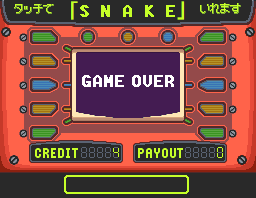
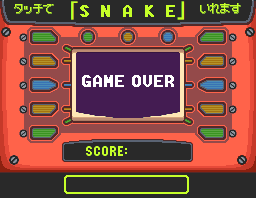
Worked on OptionState, added option to change snakeColor

Changed region(s): [[0.0938, 0.697, 0.9062, 0.8485]]

diff --git a/src/Game/GameStates/OptionState.java b/src/Game/GameStates/OptionState.java
@@ -1,0 +1,71 @@
+package Game.GameStates;
+
+import Main.Handler;
+import Resources.Images;
+import UI.UIImageButton;
+import UI.UIManager;
+
+import java.awt.*;
+
+/**
+ * Created by AlexVR on 7/1/2018.
+ */
+public class OptionState extends State {
+
+    private int count = 0;
+    private UIManager uiManager;
+
+    public OptionState(Handler handler) {
+        super(handler);
+        uiManager = new UIManager(handler);
+        handler.getMouseManager().setUimanager(uiManager);
+
+        uiManager.addObjects(new UIImageButton(350, 720, 120, 56, Images.Resume, () -> {
+            handler.getMouseManager().setUimanager(null);
+            State.setState(handler.getGame().pauseState);
+        }));
+        uiManager.addObjects(new UIImageButton(265, 322, 40, 40, Images.OptionsB, () -> {
+            handler.getMouseManager().setUimanager(null);
+            handler.getWorld().player.snakeColor = new Color(64,200,97);
+        }));
+        uiManager.addObjects(new UIImageButton(114, 372, 40, 40, Images.OptionsB, () -> {
+            handler.getMouseManager().setUimanager(null);
+            handler.getWorld().player.snakeColor = new Color(82,219,255);
+        }));
+        uiManager.addObjects(new UIImageButton(265, 422, 40, 40, Images.OptionsB, () -> {
+            handler.getMouseManager().setUimanager(null);
+            handler.getWorld().player.snakeColor = Color.white;
+        }));
+        uiManager.addObjects(new UIImageButton(114, 474, 40, 40, Images.OptionsB, () -> {
+            handler.getMouseManager().setUimanager(null);
+            handler.getWorld().player.snakeColor = Color.red;
+        }));
+      
+
+    }
+
+    @Override
+    public void tick() {
+        handler.getMouseManager().setUimanager(uiManager);
+        uiManager.tick();
+        count++;
+        if( count>=30){
+            count=30;
+        }
+        if(handler.getKeyManager().pbutt && count>=30){
+            count=0;
+
+            State.setState(handler.getGame().gameState);
+        }
+
+
+    }
+
+    @Override
+    public void render(Graphics g) {
+        g.drawImage(Images.Option,0,0,800,800,null);
+        
+        uiManager.Render(g);
+
+    }
+}

diff --git a/src/Resources/Images.java b/src/Resources/Images.java
@@ -14,12 +14,15 @@ public class Images {
     public static BufferedImage[] butstart;
     public static BufferedImage title;
     public static BufferedImage Pause;
+    public static BufferedImage Option;
     public static BufferedImage GameOver;
     public static BufferedImage[] Resume;
     public static BufferedImage[] BTitle;
     public static BufferedImage[] Options;
     public static BufferedImage[] Restart;
+    public static BufferedImage[] OptionsB;
     public static ImageIcon icon;
+    
 
     public Images() {
 
@@ -27,6 +30,7 @@ public class Images {
         Resume = new BufferedImage[2];
         BTitle = new BufferedImage[2];
         Options = new BufferedImage[2];
+        OptionsB = new BufferedImage[2];
         Restart = new BufferedImage[2];
         
 
@@ -40,10 +44,13 @@ public class Images {
             BTitle[1] = ImageIO.read(getClass().getResourceAsStream("/Buttons/BTitleP.png"));
             Options[0] = ImageIO.read(getClass().getResourceAsStream("/Buttons/Options.png"));
             Options[1] = ImageIO.read(getClass().getResourceAsStream("/Buttons/OptionsP.png"));
+            OptionsB[0] = ImageIO.read(getClass().getResourceAsStream("/Buttons/OptionsB.png"));
+            OptionsB[1] = ImageIO.read(getClass().getResourceAsStream("/Buttons/OptionsBP.png"));
             butstart[0]= ImageIO.read(getClass().getResourceAsStream("/Buttons/NormBut.png"));//normbut
             butstart[1]= ImageIO.read(getClass().getResourceAsStream("/Buttons/HoverBut.png"));//hoverbut
             butstart[2]= ImageIO.read(getClass().getResourceAsStream("/Buttons/ClickedBut.png"));//clickbut
             GameOver = ImageIO.read(getClass().getResourceAsStream("/Buttons/GameOver.png"));
+            Option = ImageIO.read(getClass().getResourceAsStream("/Buttons/Option.png"));
             Restart[0]=ImageIO.read(getClass().getResourceAsStream("/Buttons/Restart.png"));
             Restart[1]=ImageIO.read(getClass().getResourceAsStream("/Buttons/RestartP.png"));
             icon =  new ImageIcon(ImageIO.read(getClass().getResourceAsStream("/Sheets/icon.png")));

diff --git a/src/Main/GameSetUp.java b/src/Main/GameSetUp.java
@@ -1,9 +1,11 @@
 package Main;
 
 import Display.DisplayScreen;
+
 import Game.GameStates.GameState;
 import Game.GameStates.LoseState;
 import Game.GameStates.MenuState;
+import Game.GameStates.OptionState;
 import Game.GameStates.PauseState;
 import Game.GameStates.State;
 import Input.KeyManager;
@@ -47,6 +49,7 @@ public class GameSetUp implements Runnable {
     public State menuState;
     public State pauseState;
     public State loseState;
+    public State optionState;
 
     //Res.music
     private InputStream audioFile;
@@ -83,7 +86,8 @@ public class GameSetUp implements Runnable {
         gameState = new GameState(handler);
         menuState = new MenuState(handler);
         pauseState = new PauseState(handler);
-        loseState = new LoseState(handler); //GameOver
+        loseState = new LoseState(handler); //GameOver Screen
+        optionState = new OptionState(handler); //Options Screen
 
         State.setState(menuState);
 
@@ -121,7 +125,7 @@ public class GameSetUp implements Runnable {
 
     public void run(){
 
-        //initiallizes everything in order to run without breaking
+        //initializes everything in order to run without breaking
         init();
 
         int fps = 60;

diff --git a/src/Game/Entities/Dynamic/Player.java b/src/Game/Entities/Dynamic/Player.java
@@ -2,8 +2,12 @@ package Game.Entities.Dynamic;
 
 import java.awt.Color;
 import java.awt.Font;
+import java.awt.FontFormatException;
 import java.awt.Graphics;
+import java.awt.GraphicsEnvironment;
 import java.awt.event.KeyEvent;
+import java.io.File;
+import java.io.IOException;
 import java.util.Random;
 
 import Game.GameStates.State;
@@ -163,7 +167,7 @@ public class Player {
 				
 				Color pinku = new Color(255,110,199);
 				g.setColor(Color.white);
-				g.setFont(new Font("Courier", 1,20)); // Score Font
+				g.setFont(new Font("Courier New", 1,20)); // Score Font
 				g.drawString("Score: "+this.score,340,30); // Score Display
 				
 				if(playeLocation[i][j]){
@@ -211,7 +215,6 @@ public class Player {
 		}else {
 			if (this.speed>2) {
 				this.speed-= 0.08; // Increases speed relative to (student number + 1)/100
-				System.out.println(speed);
 			}
 			this.score= (int)( this.score + Math.sqrt(2*this.score+1));
 			switch (direction){

diff --git a/src/Game/GameStates/PauseState.java b/src/Game/GameStates/PauseState.java
@@ -22,7 +22,7 @@ public class PauseState extends State {
 
         uiManager.addObjects(new UIImageButton(174, 720, 120, 56, Images.Options, () -> {
             handler.getMouseManager().setUimanager(null);
-            State.setState(handler.getGame().menuState);
+            State.setState(handler.getGame().optionState);
         }));
 
         uiManager.addObjects(new UIImageButton(500, 720, 120, 56, Images.BTitle, () -> {
@@ -56,6 +56,9 @@ public class PauseState extends State {
     @Override
     public void render(Graphics g) {
         g.drawImage(Images.Pause,0,0,800,800,null);
+        g.setColor(new Color(198,255,41));
+        g.setFont(new Font("Courier New",1,60));
+        g.drawString("" + handler.getWorld().player.score, 430, 626);
         uiManager.Render(g);
 
     }

diff --git a/src/Game/GameStates/LoseState.java b/src/Game/GameStates/LoseState.java
@@ -47,6 +47,9 @@ public class LoseState extends State {
     @Override
     public void render(Graphics g) {
         g.drawImage(Images.GameOver,0,0,800,800,null);
+        g.setColor(new Color(198,255,41));
+        g.setFont(new Font("Courier New",1,60));
+        g.drawString("" + handler.getWorld().player.score, 430, 626);
         uiManager.Render(g);
 
     }
